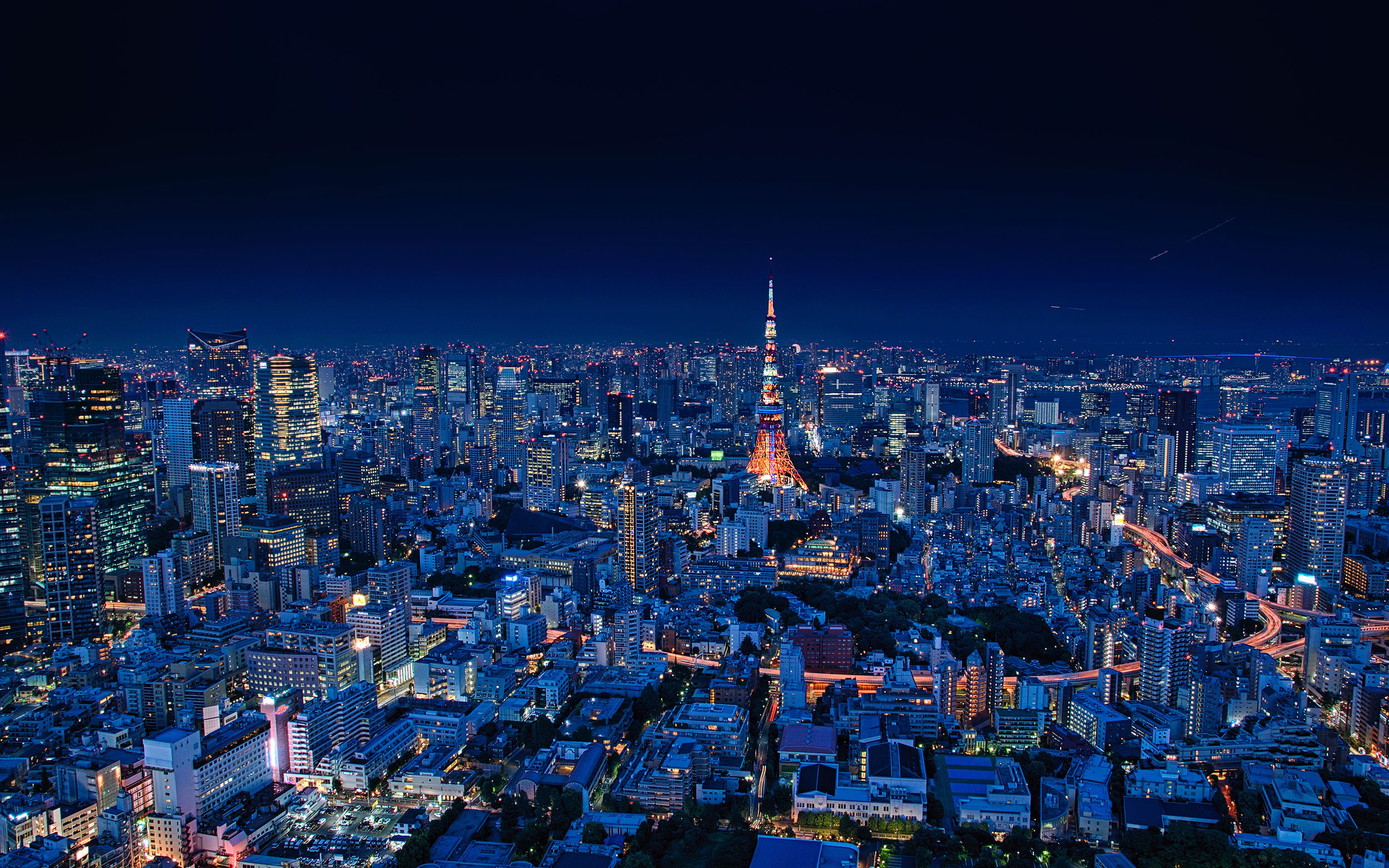
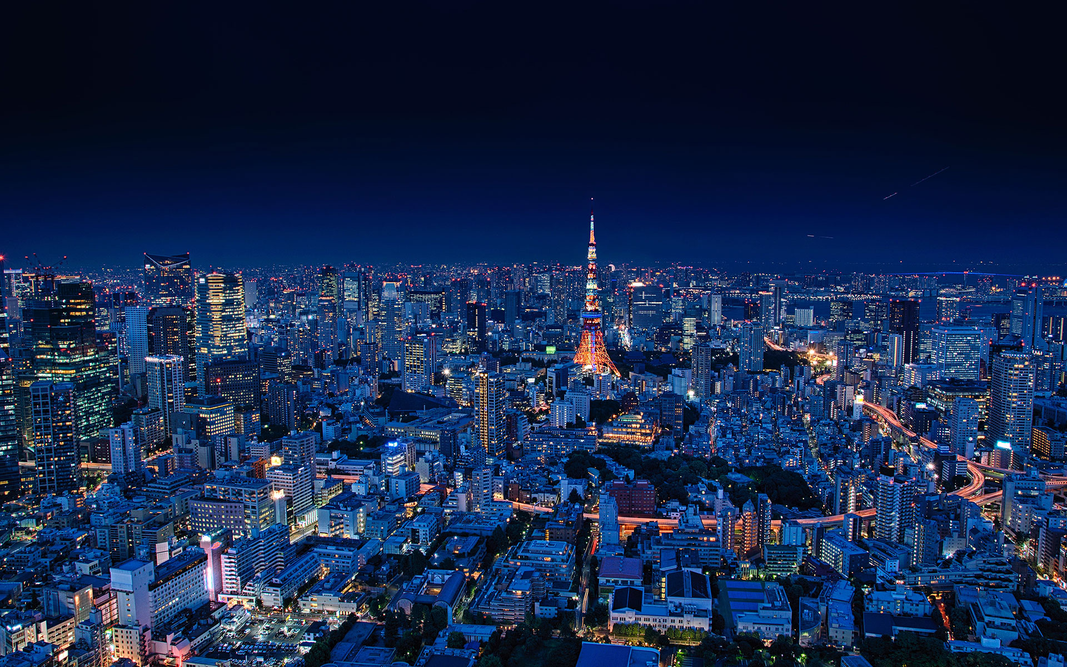
feat: update demo

diff --git a/src/CustomSwitcherCustomizationDemo.stories.tsx b/src/CustomSwitcherCustomizationDemo.stories.tsx
@@ -146,6 +146,99 @@ const demoCSSOverrides: CSSOverrides = {
   },
 };
 
+const authors = [
+  <span key={'author-1'}>
+    Photo by{' '}
+    <a
+      href="https://unsplash.com/@agk42?utm_source=unsplash&utm_medium=referral&utm_content=creditCopyText"
+      target="_blank"
+      rel="noreferrer"
+      style={{ color: '#fff' }}>
+      Alex Knight
+    </a>{' '}
+    on{' '}
+    <a
+      href="https://unsplash.com/photos/5-GNa303REg?utm_source=unsplash&utm_medium=referral&utm_content=creditCopyText"
+      target="_blank"
+      rel="noreferrer"
+      style={{ color: '#fff' }}>
+      Unsplash
+    </a>
+  </span>,
+  <span key={'author-2'}>
+    Photo by{' '}
+    <a
+      href="https://unsplash.com/@miyatankun?utm_source=unsplash&utm_medium=referral&utm_content=creditCopyText"
+      target="_blank"
+      rel="noreferrer"
+      style={{ color: '#fff' }}>
+      Takashi Miyazaki
+    </a>{' '}
+    on{' '}
+    <a
+      href="https://unsplash.com/photos/64ajtpEzlYc?utm_source=unsplash&utm_medium=referral&utm_content=creditCopyText"
+      target="_blank"
+      rel="noreferrer"
+      style={{ color: '#fff' }}>
+      Unsplash
+    </a>
+  </span>,
+  <span key={'author-3'}>
+    Photo by{' '}
+    <a
+      href="https://unsplash.com/@sorasagano?utm_source=unsplash&utm_medium=referral&utm_content=creditCopyText"
+      target="_blank"
+      rel="noreferrer"
+      style={{ color: '#fff' }}>
+      Sora Sagano
+    </a>{' '}
+    on{' '}
+    <a
+      href="https://unsplash.com/photos/8sOZJ8JF0S8?utm_source=unsplash&utm_medium=referral&utm_content=creditCopyText"
+      target="_blank"
+      rel="noreferrer"
+      style={{ color: '#fff' }}>
+      Unsplash
+    </a>
+  </span>,
+  <span key={'author-4'}>
+    Photo by{' '}
+    <a
+      href="https://unsplash.com/@jezar?utm_source=unsplash&utm_medium=referral&utm_content=creditCopyText"
+      target="_blank"
+      rel="noreferrer"
+      style={{ color: '#fff' }}>
+      Jezael Melgoza
+    </a>{' '}
+    on{' '}
+    <a
+      href="https://unsplash.com/photos/To5wAJDt1IM?utm_source=unsplash&utm_medium=referral&utm_content=creditCopyText"
+      target="_blank"
+      rel="noreferrer"
+      style={{ color: '#fff' }}>
+      Unsplash
+    </a>
+  </span>,
+  <span key={'author-5'}>
+    Photo by{' '}
+    <a
+      href="https://unsplash.com/@agk42?utm_source=unsplash&utm_medium=referral&utm_content=creditCopyText"
+      target="_blank"
+      rel="noreferrer"
+      style={{ color: '#fff' }}>
+      Alex Knight
+    </a>{' '}
+    on{' '}
+    <a
+      href="https://unsplash.com/photos/DpPutJwgyW8?utm_source=unsplash&utm_medium=referral&utm_content=creditCopyText"
+      target="_blank"
+      rel="noreferrer"
+      style={{ color: '#fff' }}>
+      Unsplash
+    </a>
+  </span>,
+];
+
 const Template: StoryFn<typeof CustomSwitcher> = () => {
   const [currentImageValue, setCurrentImageValue] = React.useState(0);
   const [play, setPlay] = React.useState(false);
@@ -291,6 +384,22 @@ const Template: StoryFn<typeof CustomSwitcher> = () => {
           callback={handleSelectImage}
           scaleWhileDrag={false}
         />
+      </div>
+      <div
+        style={{
+          position: 'absolute',
+          bottom: 10,
+          left: '50%',
+          transform: 'translateX(-50%)',
+          padding: 4,
+          borderRadius: 4,
+          backgroundColor: '#111',
+          opacity: 0.85,
+          textAlign: 'center',
+          color: '#fff',
+          fontSize: 12,
+        }}>
+        {authors[currentImageValue]}
       </div>
     </div>
   );
